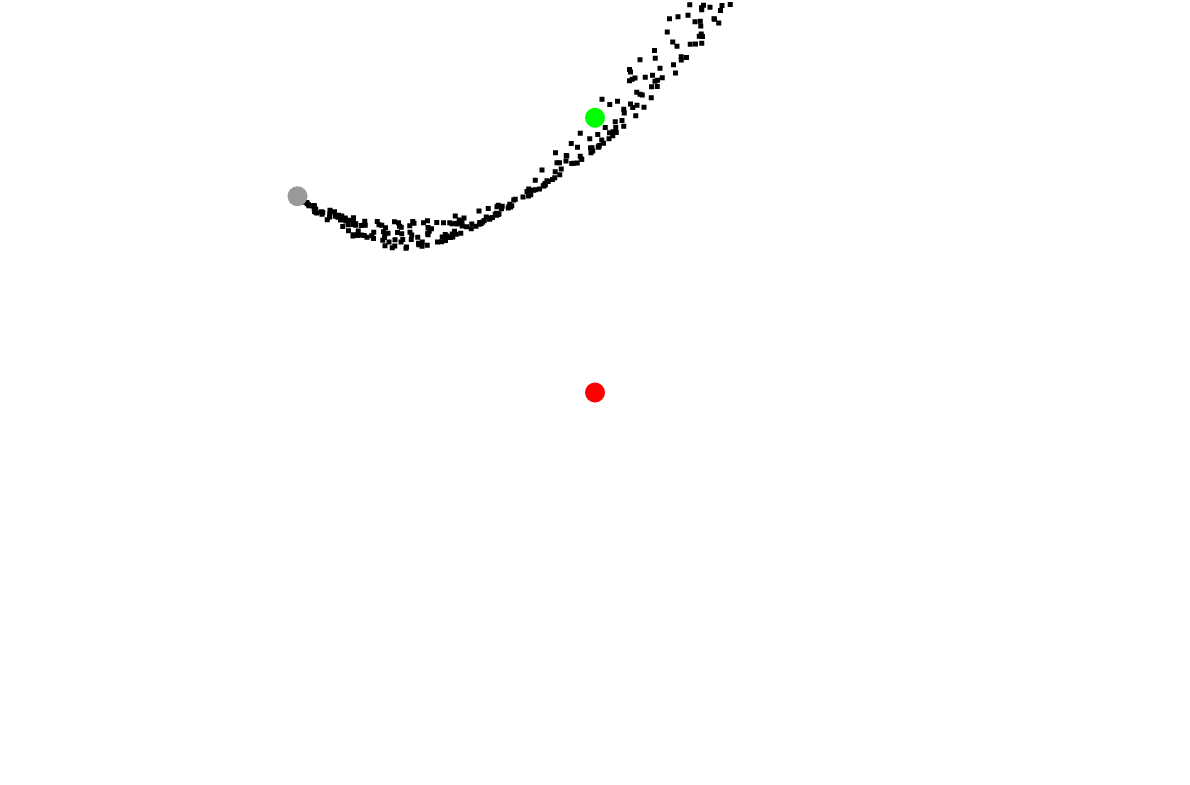
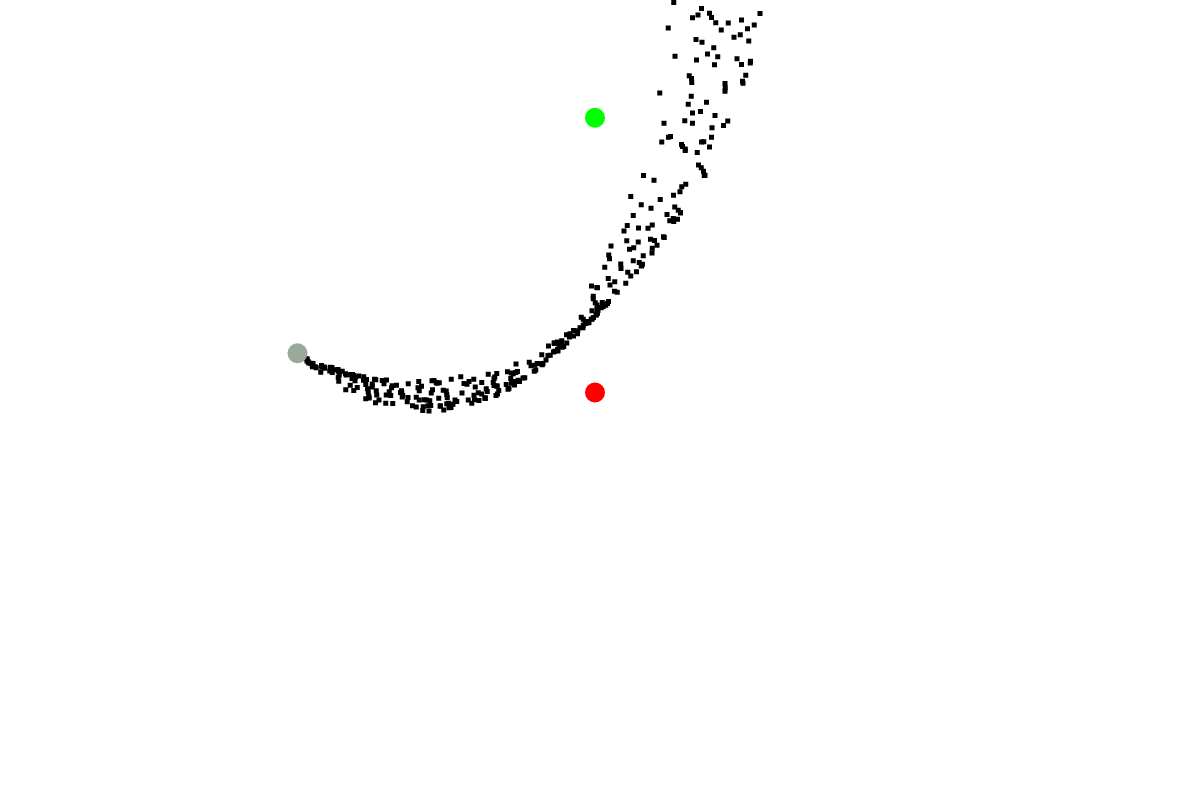
added images and fixed particle demo

diff --git a/app/scripts/particles-demo.js b/app/scripts/particles-demo.js
@@ -3,10 +3,9 @@
 // Add Canvas to demo element
 var container = document.getElementById('particles-demo-container');
 var canvas = container.appendChild(document.createElement('canvas'));
+var ctx = canvas.getContext('2d');
 canvas.width = container.clientWidth;
 canvas.height = 0.66 * canvas.width;
-
-var ctx = canvas.getContext('2d');
 
 var clear = function clear() {
   ctx.clearRect(0, 0, canvas.width, canvas.height);
@@ -20,17 +19,14 @@ var update = function update() {
 function drawCircle(obj) {
   ctx.fillStyle = obj.fill;
   ctx.beginPath();
-  ctx.arc(obj.position.x * canvas.width, obj.position.y * canvas.height, 10, 0, 6.28);
+  ctx.arc(obj.position.x * canvas.width, obj.position.y * canvas.height, obj.radius, 0, 6.28);
   ctx.closePath();
   ctx.fill();
 }
 var render = function render() {
-  world.particles.forEach(function (p) {
-    p.draw(ctx);
-  });
+  world.particles.forEach(drawCircle);
   world.emitters.forEach(drawCircle);
   world.fields.forEach(drawCircle);
-
 };
 
 var loop = function loop() {
@@ -65,6 +61,11 @@ Vector.prototype.mul = function (s) {
 Vector.prototype.clone = function () {
   return new Vector(this.x, this.y);
 };
+Vector.prototype.zero = function () {
+  this.x = 0;
+  this.y = 0;
+  return this;
+};
 Vector.fromAngle = function (angle, distance) {
   return new Vector(distance * Math.cos(angle), distance * Math.sin(angle));
 };
@@ -74,7 +75,6 @@ var World = function (emitters, fields) {
   this.fields = fields || [];
 
   this.maxParticles = 500;
-  this.generationRate = 5;
 };
 
 World.prototype.generateParticles = function () {
@@ -102,11 +102,14 @@ var Particle = function (position, velocity, acceleration) {
   this.position = position || new Vector(0, 0);
   this.velocity = velocity || new Vector(0, 0);
   this.acceleration = acceleration || new Vector(0, 0);
+  this.radius = 2;
+  this.fill = 'black';
 };
 
 Particle.prototype.integrate = function (delta) {
   this.velocity.add(this.acceleration.mul(delta * 0.5));
   this.position.add(this.velocity.mul(delta));
+  //this.acceleration.zero();
 };
 Particle.prototype.applyFields = function (fields) {
   var aX = 0, aY = 0;
@@ -122,19 +125,13 @@ Particle.prototype.applyFields = function (fields) {
   }.bind(this));
   this.acceleration = new Vector(aX, aY);
 };
-Particle.prototype.draw = function (ctx) {
-  ctx.fillStyle = 'black';
-  ctx.beginPath();
-  ctx.rect(this.position.x * canvas.width, this.position.y * canvas.height, 5, 5);
-  ctx.closePath();
-  ctx.fill();
-};
 
 
 var Emitter = function (position, velocity, sigma) {
   this.position = position;
   this.velocity = velocity;
   this.sigma = sigma || Math.PI / 16;
+  this.radius = 10;
   this.fill = '#9A9';
 };
 
@@ -149,12 +146,13 @@ Emitter.prototype.emit = function () {
 var Field = function (position, mass) {
   this.position = position;
   this.setMass(mass);
+  this.radius = 10;
 };
 Field.prototype.setMass = function (mass) {
   this.mass = mass || 1;
   this.fill = mass < 0 ? '#f00' : '#0f0';
 };
-var fields = [new Field(new Vector(0.5, 0.5), -0.1), new Field(new Vector(0.5, 0.15), 0.1)];
-var emitters = [new Emitter(new Vector(0.25, 0.25), Vector.fromAngle(Math.PI / 4, 0.15), Math.PI / 16)];
+var fields = [new Field(new Vector(0.5, 0.5), -0.1), new Field(new Vector(0.5, 0.15), 0.25)];
+var emitters = [new Emitter(new Vector(0.25, 0.45), Vector.fromAngle(Math.PI / 4, 0.15), Math.PI / 16)];
 var world = new World(emitters, fields);
 loop();

diff --git a/dist/scripts/particles-demo.js b/dist/scripts/particles-demo.js
@@ -3,10 +3,9 @@
 // Add Canvas to demo element
 var container = document.getElementById('particles-demo-container');
 var canvas = container.appendChild(document.createElement('canvas'));
+var ctx = canvas.getContext('2d');
 canvas.width = container.clientWidth;
 canvas.height = 0.66 * canvas.width;
-
-var ctx = canvas.getContext('2d');
 
 var clear = function clear() {
   ctx.clearRect(0, 0, canvas.width, canvas.height);
@@ -20,17 +19,14 @@ var update = function update() {
 function drawCircle(obj) {
   ctx.fillStyle = obj.fill;
   ctx.beginPath();
-  ctx.arc(obj.position.x * canvas.width, obj.position.y * canvas.height, 10, 0, 6.28);
+  ctx.arc(obj.position.x * canvas.width, obj.position.y * canvas.height, obj.radius, 0, 6.28);
   ctx.closePath();
   ctx.fill();
 }
 var render = function render() {
-  world.particles.forEach(function (p) {
-    p.draw(ctx);
-  });
+  world.particles.forEach(drawCircle);
   world.emitters.forEach(drawCircle);
   world.fields.forEach(drawCircle);
-
 };
 
 var loop = function loop() {
@@ -65,6 +61,11 @@ Vector.prototype.mul = function (s) {
 Vector.prototype.clone = function () {
   return new Vector(this.x, this.y);
 };
+Vector.prototype.zero = function () {
+  this.x = 0;
+  this.y = 0;
+  return this;
+};
 Vector.fromAngle = function (angle, distance) {
   return new Vector(distance * Math.cos(angle), distance * Math.sin(angle));
 };
@@ -74,7 +75,6 @@ var World = function (emitters, fields) {
   this.fields = fields || [];
 
   this.maxParticles = 500;
-  this.generationRate = 5;
 };
 
 World.prototype.generateParticles = function () {
@@ -102,11 +102,14 @@ var Particle = function (position, velocity, acceleration) {
   this.position = position || new Vector(0, 0);
   this.velocity = velocity || new Vector(0, 0);
   this.acceleration = acceleration || new Vector(0, 0);
+  this.radius = 2;
+  this.fill = 'black';
 };
 
 Particle.prototype.integrate = function (delta) {
   this.velocity.add(this.acceleration.mul(delta * 0.5));
   this.position.add(this.velocity.mul(delta));
+  //this.acceleration.zero();
 };
 Particle.prototype.applyFields = function (fields) {
   var aX = 0, aY = 0;
@@ -122,19 +125,13 @@ Particle.prototype.applyFields = function (fields) {
   }.bind(this));
   this.acceleration = new Vector(aX, aY);
 };
-Particle.prototype.draw = function (ctx) {
-  ctx.fillStyle = 'black';
-  ctx.beginPath();
-  ctx.rect(this.position.x * canvas.width, this.position.y * canvas.height, 5, 5);
-  ctx.closePath();
-  ctx.fill();
-};
 
 
 var Emitter = function (position, velocity, sigma) {
   this.position = position;
   this.velocity = velocity;
   this.sigma = sigma || Math.PI / 16;
+  this.radius = 10;
   this.fill = '#9A9';
 };
 
@@ -149,12 +146,13 @@ Emitter.prototype.emit = function () {
 var Field = function (position, mass) {
   this.position = position;
   this.setMass(mass);
+  this.radius = 10;
 };
 Field.prototype.setMass = function (mass) {
   this.mass = mass || 1;
   this.fill = mass < 0 ? '#f00' : '#0f0';
 };
-var fields = [new Field(new Vector(0.5, 0.5), -0.1), new Field(new Vector(0.5, 0.15), 0.1)];
-var emitters = [new Emitter(new Vector(0.25, 0.25), Vector.fromAngle(Math.PI / 4, 0.15), Math.PI / 16)];
+var fields = [new Field(new Vector(0.5, 0.5), -0.1), new Field(new Vector(0.5, 0.15), 0.25)];
+var emitters = [new Emitter(new Vector(0.25, 0.45), Vector.fromAngle(Math.PI / 4, 0.15), Math.PI / 16)];
 var world = new World(emitters, fields);
 loop();
